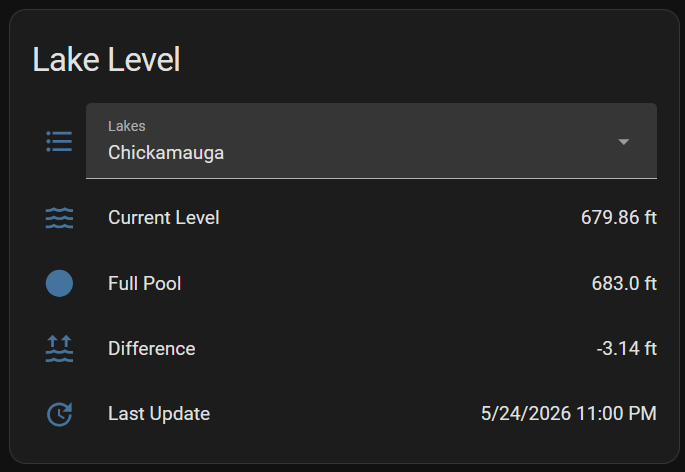
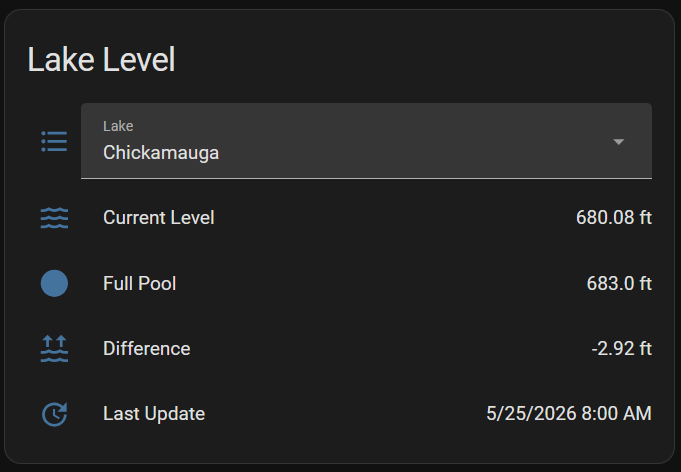
Updated Readme with lots of new info. Added comments to script. Updated notifications

diff --git a/lakelevel/lakelevel.py b/lakelevel/lakelevel.py
@@ -2,17 +2,17 @@ import requests
 import pandas as pd
 from io import StringIO
 url = "https://www.lakelevels.info/"
-# html = requests.get(url)
-# lakename = "Chickamauga  (TN)"
 html = await hass.async_add_executor_job(requests.get, url)
 df_list = pd.read_html(StringIO(html.text))
 df = df_list[4]
 
 def update_lake_info():
-    html = await hass.async_add_executor_job(requests.get, url)
+    html = await hass.async_add_executor_job(requests.get, url) #Pyscript only
+    #When testing in python:  html = requests.get(url)
     df_list = pd.read_html(StringIO(html.text))
     df = df_list[4]
-    lakename = state.get("input_select.lake")
+    lakename = state.get("input_select.lake") #Pyscript only
+    #When testing in python: lakename = "Chickamauga  (TN)"
     fdf = df[df['Lake Name'].str.contains(lakename)].reset_index()
     levelCurrent = fdf.at[0,'Current Level']
     levelCurrent = levelCurrent.item()
@@ -48,8 +48,9 @@ def update_lake_info():
     'icon': 'mdi:update'
     })
 
-def quick_update_lake_info():
-    lakename = state.get("input_select.lake")
+def quick_load_lake_info():
+    lakename = state.get("input_select.lake") #Pyscript only
+    #When testing in python: lakename = "Chickamauga  (TN)"
     fdf = df[df['Lake Name'].str.contains(lakename)].reset_index()
     levelCurrent = fdf.at[0,'Current Level']
     levelCurrent = levelCurrent.item()
@@ -90,9 +91,9 @@ def update_sensors_time():
     update_lake_info()
 
 @time_trigger("once(now)","startup")
-def update_sensors_time():
-    quick_update_lake_info()
+def quick_load_sensors_time():
+    quick_load_lake_info()
 
 @state_trigger("input_select.lake")
-def update_sensors_lakechange():
-    quick_update_lake_info()
+def quick_load_lakechange():
+    quick_load_lake_info()

diff --git a/lakelevel/README.md b/lakelevel/README.md
@@ -1,20 +1,32 @@
-This script pulls lake level info from [lakelevels.info](https://www.lakelevels.info/updates) and updates HASS sensors with the data.
+This script pulls lake level info from [lakelevels.info](https://www.lakelevels.info) and updates HASS sensors with the data.
 
 <img src="https://github.com/scottocs11/hass/blob/main/lakelevel/images/lakelevelcard.png" width="400"/>
+
+Features:
+1. Uses Python libraries [requests](https://pypi.org/project/requests/) and [pandas](https://pypi.org/project/pandas/) to load lakes from a table from [lakelevels.info](https://www.lakelevels.info).
+2. Only makes one request per day (set to 6am).
+3. When the lake name is changed, loads the chosen lake's data from the cached table.
+4. Creates required template sensors automatically.
+5. Includes YAML for Dashboard card and daily notifications.
 
 Prerequisites:
 1. Download and install [HACS](https://github.com/hacs). Restart HASS.
 2. Using HACS, download [Pyscript](https://github.com/custom-components/pyscript). Restart HASS.
 
 Instructions:
+1. In HASS -> Integrations, Create a new **Input select (helper)**.  
+   **Name**: Lake  
+   **Icon**: mdi:format-list-bulleted  
+   **Options**: Your lake names, taken from [here](https://www.lakelevels.info). If a lake's name is not unique, you must format it like below, with **TWO** spaces between the name and state. (See Known bug #1)  
+   **Example**: Cherokee  (tn)
 1. Download lakelevel.py and copy it to your HASSconfig/pyscript folder.
 2. Reload Pyscript. The four sensors should now have the new values.
 3. Add a new card to your dash using the YAML from [card_config.yaml](https://github.com/scottocs11/hass/blob/main/lakelevel/card_config.yaml)
 4. Optionally, add a new automation using the YAML from [notifications.yaml](https://github.com/scottocs11/hass/blob/main/lakelevel/notifications.yaml).
 
 Known Bugs:
-1. Hass' [Input Select](https://www.home-assistant.io/integrations/input_select/) removes one of the two required spaces between the lake name and the state, so until I figure that out, I can't perform exact name searches, only 'contains'.
-2. Unique ID's are not set for sensors.
+1. HASS' [Input Select](https://www.home-assistant.io/integrations/input_select/) removes one of the two required spaces between the lake name and the state, so until I figure that out, it can't perform exact name searches, only 'contains'. This means only the first of any unique lake name can be used.
+2. Unique ID's are not set for sensors, so the sensors can't be customized in the UI unless you add the sensors to configuration yaml. You may as well customize them within the script.
 
 To Do:
-1. Create and set the dropdown menu with all state names, or text box to type the name. Unfortunately, HASS doesn't have a way to autocomplete the lake name.
+1. Fix bugs.
